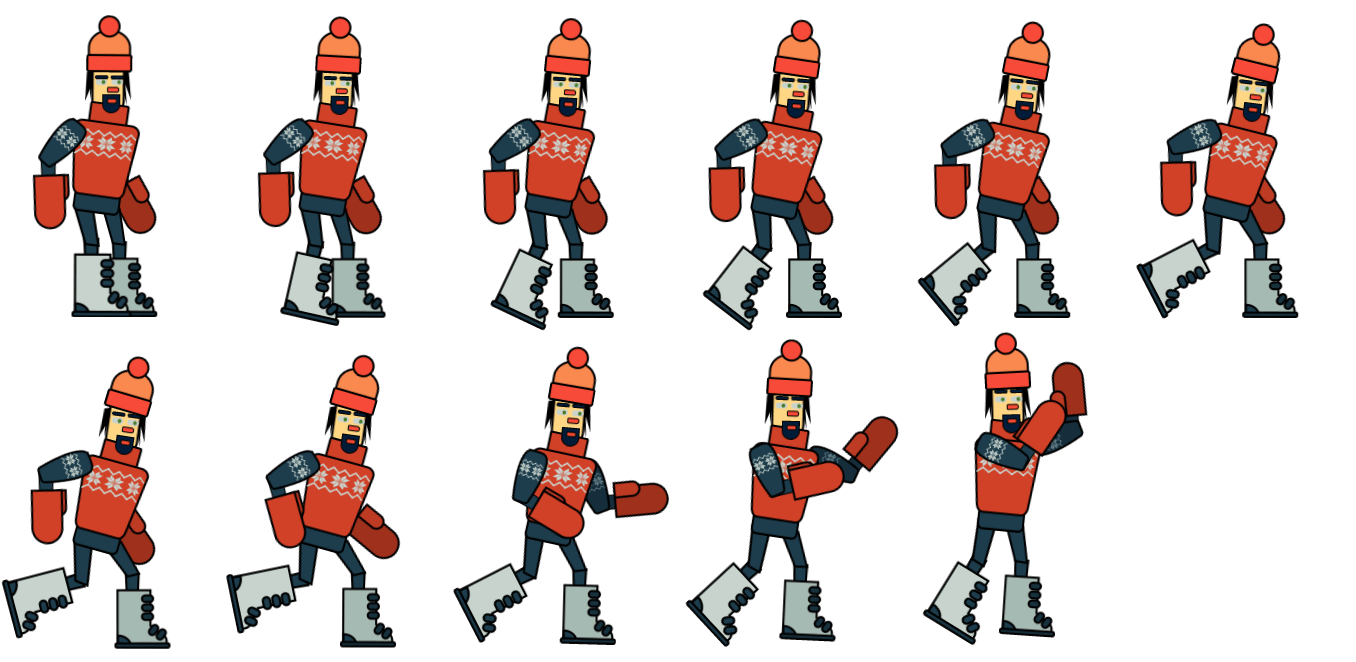
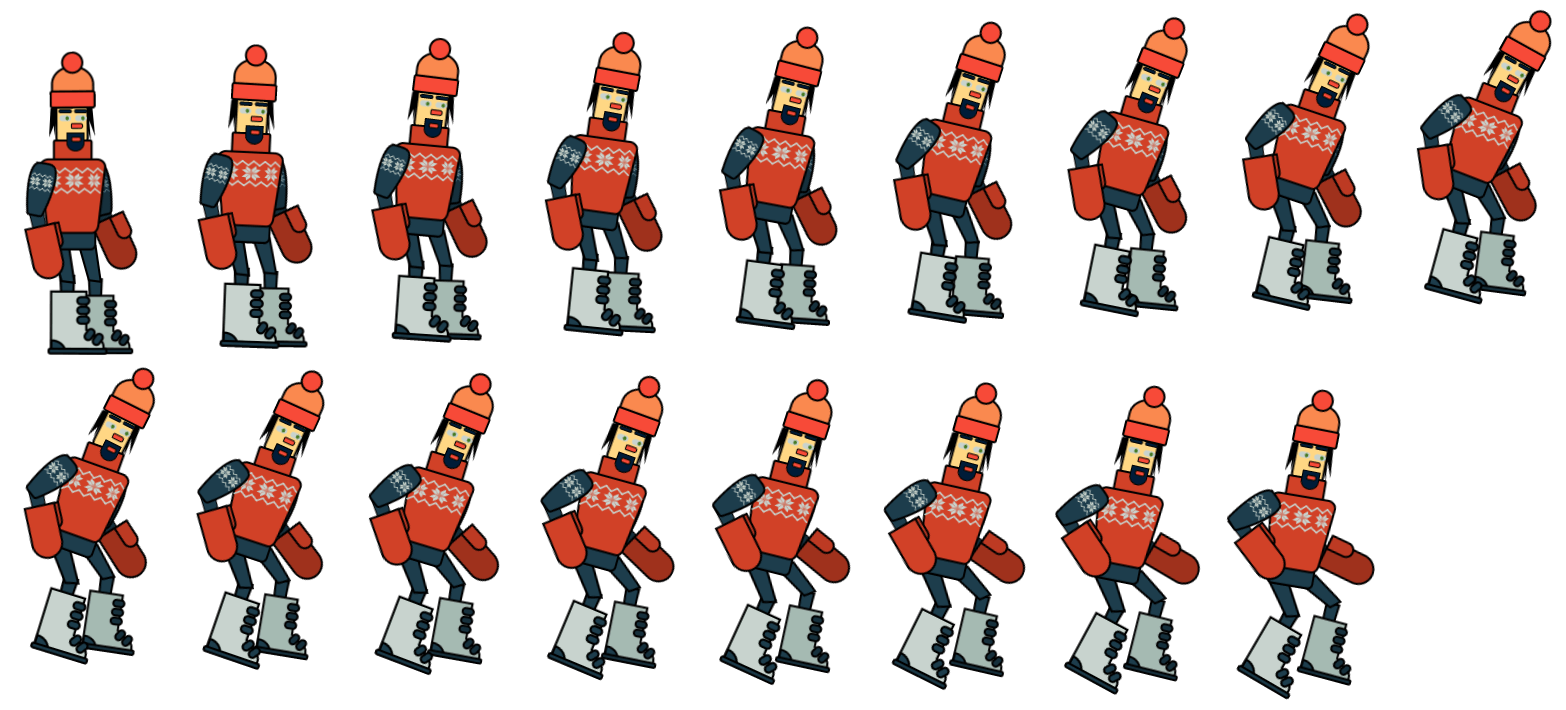
Исправление анимации прыжка для персонажа

diff --git a/src/compositions/Player.composition.js b/src/compositions/Player.composition.js
@@ -27,49 +27,49 @@ export const playerComposition = {
     scene.anims.create({
       key: "player-run",
       frames: scene.anims.generateFrameNames("player-run"),
-      frameRate: 28,
+      frameRate: 32,
       repeat: -1,
     });
     scene.anims.create({
       key: "player-run-chair",
       frames: scene.anims.generateFrameNames("player-run-chair"),
-      frameRate: 28,
+      frameRate: 32,
       repeat: -1,
     });
     scene.anims.create({
       key: "player-idle",
       frames: scene.anims.generateFrameNames("player-idle"),
-      frameRate: 14,
+      frameRate: 16,
       repeat: -1,
     });
     scene.anims.create({
       key: "player-idle-chair",
       frames: scene.anims.generateFrameNames("player-idle-chair"),
-      frameRate: 14,
+      frameRate: 16,
       repeat: -1,
     });
     scene.anims.create({
       key: "player-jump",
       frames: scene.anims.generateFrameNames("player-jump"),
-      frameRate: 34,
+      frameRate: 32,
       repeat: 0,
     });
     scene.anims.create({
       key: "player-jump-chair",
       frames: scene.anims.generateFrameNames("player-jump-chair"),
-      frameRate: 34,
+      frameRate: 32,
       repeat: 0,
     });
     scene.anims.create({
       key: "player-fall",
       frames: scene.anims.generateFrameNames("player-fall"),
-      frameRate: 40,
+      frameRate: 32,
       repeat: -1,
     });
     scene.anims.create({
       key: "player-fall-chair",
       frames: scene.anims.generateFrameNames("player-fall-chair"),
-      frameRate: 40,
+      frameRate: 32,
       repeat: -1,
     });
   },
@@ -133,7 +133,9 @@ export const playerComposition = {
       player.body.velocity.y = 0;
     }
 
-    if (isGrounded || player.onStairInPreviousFrame > 0) {
+    const currentlyGrounded = player.groundedCoyoteTime > 0 || player.onStairInPreviousFrame > 0;
+
+    if (currentlyGrounded) {
       if (player.body.velocity.x === 0) {
         if (player.currentChair) player.anims.play("player-idle-chair", true);
         else player.anims.play("player-idle", true);
@@ -146,11 +148,16 @@ export const playerComposition = {
         playFootstepSound(scene, player, solidTile ?? woodTile);
       }
     } else {
-      if (player.body.velocity.y > 0) {
+      const currentAnim = player.anims.currentAnim?.key;
+      const isJumpingAnim = currentAnim === "player-jump" || currentAnim === "player-jump-chair";
+
+      if (player.body.velocity.y < 0) {
+        player.body.velocity.x *= PLAYER_FALL_MULTIPLICATOR;
+      }
+
+      if (player.body.velocity.y > 0 || !isJumpingAnim || !player.anims.isPlaying) {
         if (player.currentChair) player.anims.play("player-fall-chair", true);
         else player.anims.play("player-fall", true);
-      } else if (player.body.velocity.y < 0) {
-        player.body.velocity.x *= PLAYER_FALL_MULTIPLICATOR;
       }
     }
 
